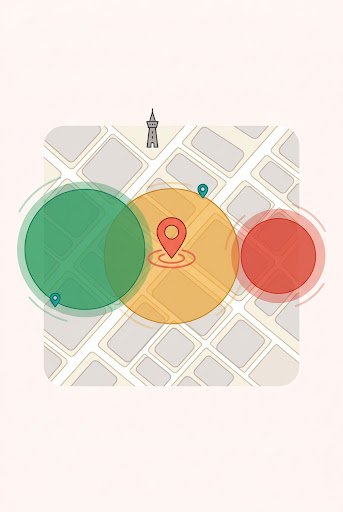
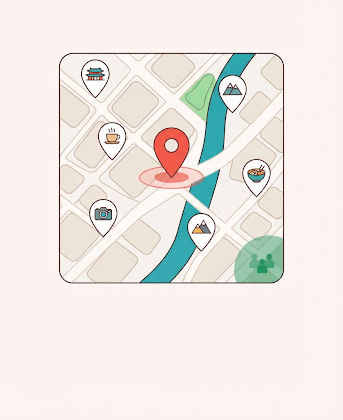
fix(national-map): 사진 등록이 실패하면 스피너가 영원히 돌던 것을 고친다
실기기 확인(2026-08-26): "사진으로 채우기"에서 진행바가 사라지고 스피너만
계속 돈다.

`awaitingConfirmation` 단계에서 화면이 `VisitController.record`를 부르는데,
**그것이 던지면 `confirmed()`에 닿지 못한다.** 단계가 그대로 머물러 "N곳을
찾았어요" 아래 스피너만 돌고, 진행바는 이미 지난 `scanning` 단계의 것이라
보이지 않는다.

게다가 `_registering = false`가 순차 실행이라 예외 시 플래그가 true로 박혀
**재시도조차 막혔다.**

등록 실패를 받을 창구(`registrationFailed`)를 만들고 화면이 그리로 보낸다.
스캔 결과는 그대로 두므로 다시 찾을 필요 없이 등록만 다시 누르면 된다.
플래그는 `finally`로 옮겨 어떤 실패에도 풀린다.

## 문구 둘

**탈퇴 안내를 줄였다.** soft delete를 반영하느라 늘어났는데 구구절절해졌다 —
뜻(글은 남고 작성자는 안 보인다, 계정은 복구 불가)은 지키고 문장만 짧게 한다.

**온보딩 5번이 혼잡도를 약속하고 있었다.** 혼잡도는 **서울에서만 제공된다** —
청주에 있는 사람에게는 쓸 수 없는 기능이다(사용자 지적). 지도 탭의 보편적
가치인 "주변 여행지를 지도에서 본다"로 바꾸고, 혼잡도는 "제공되는 곳에서는"
이라는 조건과 함께 부차적으로만 적는다. 4개 언어 전부.

일러스트도 마커 중심으로 다시 받았다. 생성기가 "텍스트 없이"를 어기고 영어
제목을 박아 넣어 위쪽을 잘라 냈다 — 앱은 문구를 l10n으로 그리므로 그대로 두면
한국어 사용자에게 영어가 함께 뜬다.

diff --git a/lib/domain/national_map/component/photo_sync_sheet.dart b/lib/domain/national_map/component/photo_sync_sheet.dart
@@ -157,8 +157,14 @@ class _Content extends ConsumerWidget {
         if (!_registering) {
           _registering = true;
           WidgetsBinding.instance.addPostFrameCallback((_) async {
-            await _register(context, ref, controller);
-            _registering = false;
+            // **`finally`여야 한다.** 순차로 두면 등록이 던졌을 때 플래그가 true로
+            // 박혀 재시도조차 막힌다 — `_register`가 예외를 삼키게 됐지만, 그
+            // 안에서 또 다른 실패가 나도 여기서는 반드시 풀린다.
+            try {
+              await _register(context, ref, controller);
+            } finally {
+              _registering = false;
+            }
           });
         }
         return Column(
@@ -201,8 +207,20 @@ class _Content extends ConsumerWidget {
     PhotoScanController controller,
   ) async {
     final List<String> codes = progress.resolvedCellCodes;
-    // 사진이 몇 장이든 요청은 1회다 — 판정 결과가 시군구 코드로 축약돼 있다.
-    await ref.read(visitControllerProvider.notifier).record(codes);
+    try {
+      // 사진이 몇 장이든 요청은 1회다 — 판정 결과가 시군구 코드로 축약돼 있다.
+      await ref.read(visitControllerProvider.notifier).record(codes);
+    } on Object {
+      // **던지게 두면 스피너가 영원히 돈다**(실기기 확인 2026-08-26).
+      // `record`가 던지면 아래 `confirmed()`에 닿지 못해 단계가
+      // `awaitingConfirmation`에 머물고, "N곳을 찾았어요" 아래 스피너만 계속
+      // 돌면서 재시도 수단도 없다.
+      //
+      // 스캔 결과는 그대로 두고 실패 단계로 보낸다 — 다시 찾을 필요 없이 등록만
+      // 다시 누르면 된다.
+      controller.registrationFailed();
+      return;
+    }
     // **호출부에 심는다.** `VisitController.record`는 사진 경로와 현재 위치 경로가
     // 합류하는 자리라, 거기 심으면 둘을 구분할 수 없다.
     AppAnalytics.logEvent(AnalyticsEvents.nationalMapRegionAdd, <String, Object>{

diff --git a/lib/domain/national_map/provider/photo_scan_controller.dart b/lib/domain/national_map/provider/photo_scan_controller.dart
@@ -288,6 +288,19 @@ class PhotoScanController extends _$PhotoScanController {
   void confirmed() =>
       state = state.copyWith(stage: PhotoScanStage.completed);
 
+  /// 등록이 실패했다(2026-08-26).
+  ///
+  /// **이 창구가 없어서 스피너가 영원히 돌았다.** 화면이 `VisitController.record`를
+  /// 부르는데 그것이 던지면 [confirmed]에 닿지 못하고, 단계가 `awaitingConfirmation`에
+  /// 머물러 "N곳을 찾았어요" 아래 스피너만 계속 돈다(실기기 확인).
+  ///
+  /// 스캔 결과는 그대로 두고 단계만 실패로 돌린다 — 다시 찾을 필요 없이 등록만
+  /// 다시 시도하면 된다.
+  void registrationFailed() => state = state.copyWith(
+    stage: PhotoScanStage.failed,
+    retryCount: state.retryCount + 1,
+  );
+
   /// 처음부터 다시 훑는다.
   void reset() {
     _cancelled = true;

diff --git a/docs/design/SPEC-0032-onboarding.md b/docs/design/SPEC-0032-onboarding.md
@@ -22,7 +22,13 @@
 | 2 | 전국 지도 | `fd572af5ae344fbaa42848bb3933dd27` | Fill in your Korea | 다녀오면 칸이 색으로 채워진다 — 스크래치 지도 |
 | 3 | 발견 | `551457e1145b46e79a4f655a0d678d47` | Swipe to find your place | 오른쪽 좋아요, 왼쪽 패스. 가운데 강조 탭 |
 | 4 | 내 활동 | `6f9b70d9830c4813958c11f8351a95f8` | Your saves and your people | 좋아요한 장소와 커뮤니티 활동이 한자리 |
-| 5 | 지도 | `63045b50722a407185edf31bf2b4f5c3` | See how busy it is | 실시간 혼잡도로 언제 갈지 정한다 |
+| 5 | 지도 | `63483972e42643ce92addbe45df49b56` | Find spots on the map | 주변 여행지를 지도에서 본다 |
+
+> **5번은 "혼잡도"가 주제가 아니다**(사용자 지적 2026-08-26). 혼잡도는 **서울에서만
+> 제공된다** — 청주에 있는 사람에게 "혼잡도로 언제 갈지 정하세요"라고 하면 쓸 수
+> 없는 기능을 약속하는 셈이다. 지도 탭의 보편적 가치인 "주변 스팟을 지도에서
+> 본다"로 바꾸고, 혼잡도는 "제공되는 곳에서는"이라는 조건과 함께 부차적으로만 적는다.
+> 일러스트도 마커 중심으로 다시 받았고 혼잡 존은 구석에 작게만 남겼다.
 
 각 화면 공통: 상단에 로고 + Skip, 큰 일러스트 카드, 굵은 제목(primary), 설명 한 줄,
 5개 점, 하단 전체 폭 버튼(마지막은 "Get started").
@@ -67,7 +73,12 @@
 | `national_map.png` | 전국 지도 | 한반도 셀 지도, 8~10칸만 컬러 랜드마크 |
 | `discover.png` | 발견 | 부채꼴 카드 덱 + 하트/X 배지 |
 | `activity.png` | 내 활동 | 하트+저장 카드와 말풍선을 점선으로 이음 |
-| `map.png` | 지도 | 도시 블록 위 녹/황/적 혼잡 존 |
+| `map.png` | 지도 | 마커 다섯이 흩어진 도시 지도, 혼잡 존은 구석에 하나만 |
+
+> `map.png`는 **위쪽을 잘라 냈다.** 생성기가 "텍스트 없이"라는 지시를 어기고
+> 그림 위에 "Find spots on the map"을 박아 넣었는데, 앱은 문구를 l10n으로 그리므로
+> 그대로 두면 한국어 사용자에게 영어가 함께 뜬다. 잘라 내며 재인코딩돼 이 장만
+> 파일이 크다(113KB) — 다섯 장 합쳐 280KB라 그대로 둔다.
 
 **다섯이 한 세트로 보이는 것이 조건이다** — 플랫 벡터, 얇은 외곽선, 따뜻한
 오프화이트 배경(#FFF8F7), 브랜드 색. 한 장만 다른 스타일이면 그 장이 튄다.
